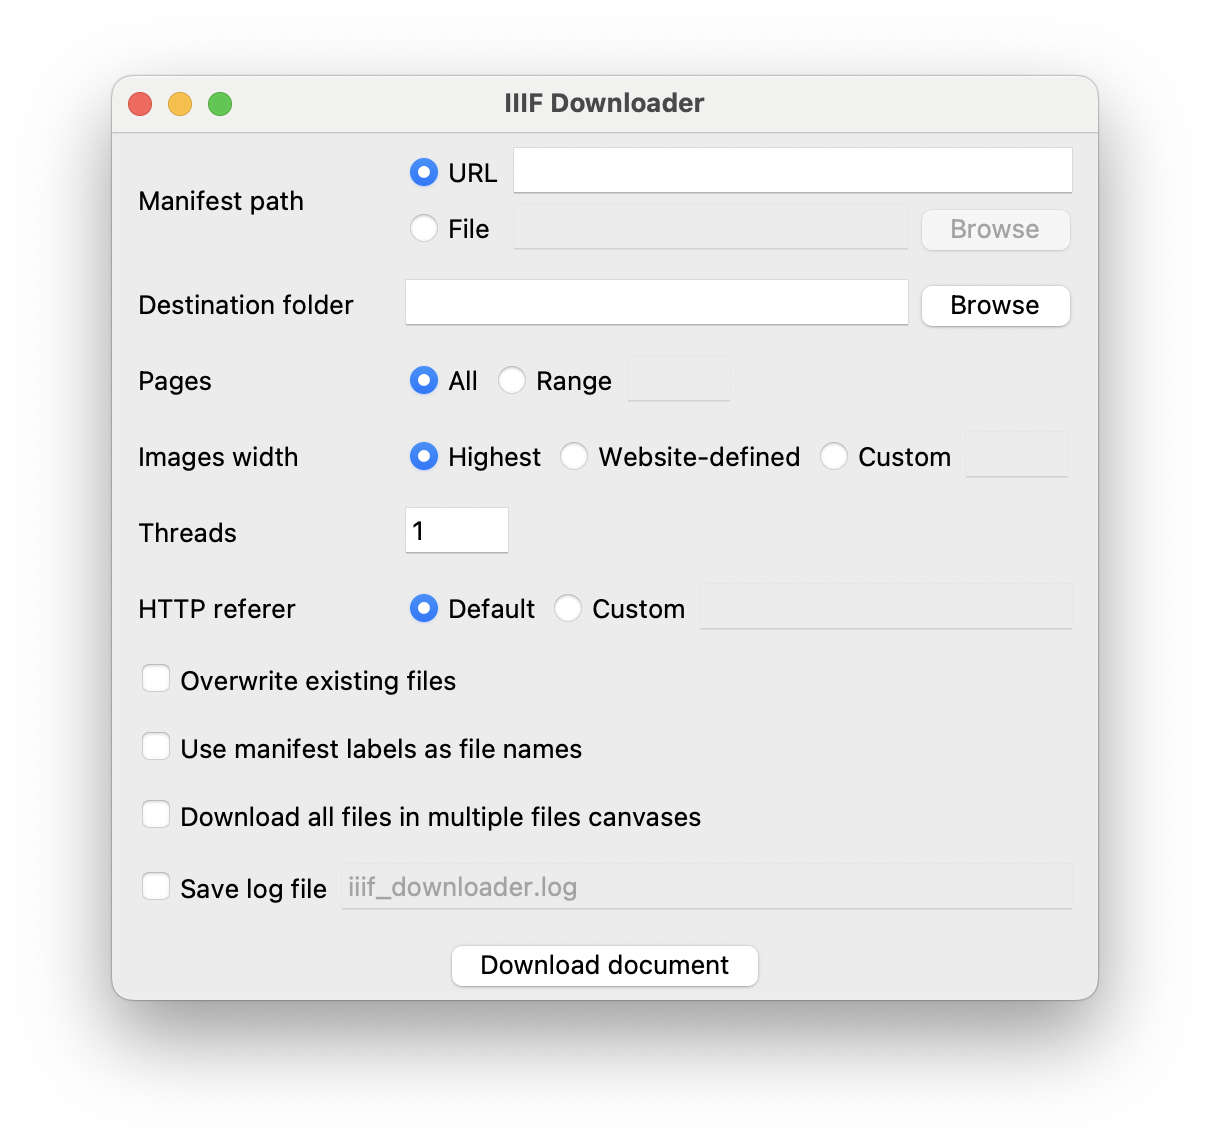
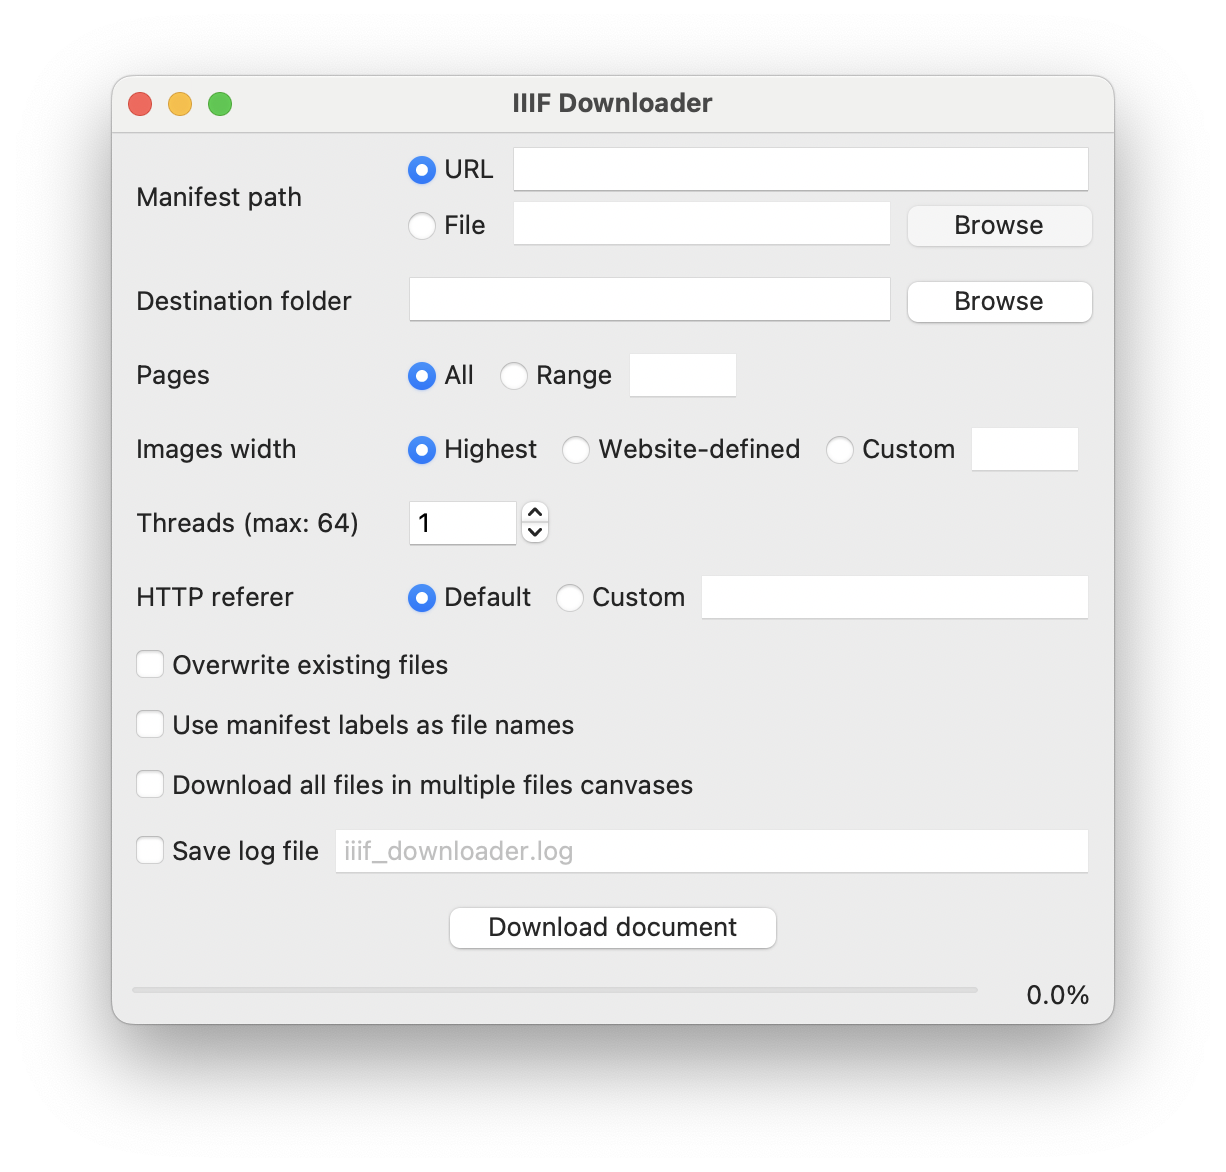
Added progress bar in GUI

diff --git a/iiif_downloader_gui.py b/iiif_downloader_gui.py
@@ -210,7 +210,18 @@ class GUI:
         # Download button
         self.btn_download = ttk.Button(
             master=frame, text="Download document", command=self.run)
-        self.btn_download.grid(row=11, column=0, columnspan=2, padx=5, pady=5)
+        self.btn_download.grid(row=11, column=0, columnspan=2, padx=0, pady=5)
+
+        # Progress bar
+        progress_bar_frame = ttk.Frame(master=frame)
+        progress_bar_frame.grid(
+            row=12, column=0, columnspan=2, padx=10, pady=5, sticky="ew")
+        self.progress_bar = ttk.Progressbar(
+            master=progress_bar_frame, orient="horizontal", mode="determinate")
+        self.lbl_progress_bar = ttk.Label(
+            master=progress_bar_frame, width=7, anchor="e", text="0.0%")
+        self.lbl_progress_bar.pack(side="right")
+        self.progress_bar.pack(fill="x")
 
         # Pack the frame in the window, as small as possible, responsive on x
         frame.pack(fill="x")
@@ -290,8 +301,17 @@ class GUI:
 
     def check_downloader_thread(self):
         while (True):
-            time.sleep(1)
-            # TODO read downloader.downloaded_cnt for progress bar here
+            time.sleep(0.5)
+
+            # Update progress bar
+            tot_pages = len(self.downloader.pages)
+            tot_cnt = self.downloader.downloaded_cnt + \
+                self.downloader.skipped_cnt + self.downloader.failed_cnt
+            self.progress_bar.config(value=round(tot_cnt / tot_pages * 100, 1))
+            self.lbl_progress_bar.config(
+                text=str(self.progress_bar["value"]) + "%")
+
+            # Enable download button
             if (not self.thread_downloader.is_alive()):
                 self.btn_download.config(state="normal")
                 break
@@ -390,28 +410,28 @@ class GUI:
                     rootLogger.addHandler(fileHandler)
 
             # Create downloader
-            downloader = iiif_downloader.IIIF_Downloader()
+            self.downloader = iiif_downloader.IIIF_Downloader()
 
-            downloader.json_file = manifest
-            downloader.maindir = path_value
-            downloader.firstpage = firstpage
-            downloader.lastpage = lastpage
-            downloader.force = force_value
-            downloader.use_labels = uselabels_value
-            downloader.all_images = allimages_value
-            downloader.referer = referer
-            downloader.num_threads = threads
-            downloader.width = width  # -w not used: 0; -w without arg: None
+            self.downloader.json_file = manifest
+            self.downloader.maindir = path_value
+            self.downloader.firstpage = firstpage
+            self.downloader.lastpage = lastpage
+            self.downloader.force = force_value
+            self.downloader.use_labels = uselabels_value
+            self.downloader.all_images = allimages_value
+            self.downloader.referer = referer
+            self.downloader.num_threads = threads
+            self.downloader.width = width  # -w unused: 0; -w without arg: None
 
-            downloader.pages.clear()  # clear page list
+            self.downloader.pages.clear()  # clear page list
 
             # Disable download button and run downloader in daemonic thread
             self.btn_download.config(state="disabled")
             self.thread_downloader = threading.Thread(
-                target=downloader.run, daemon=True)
+                target=self.downloader.run, daemon=True)
             self.thread_downloader.start()
 
-            # Enable button when downloads are complete
+            # Thread to update the progress bar and enable the download button
             thread_button = threading.Thread(
                 target=self.check_downloader_thread, daemon=True)
             thread_button.start()
